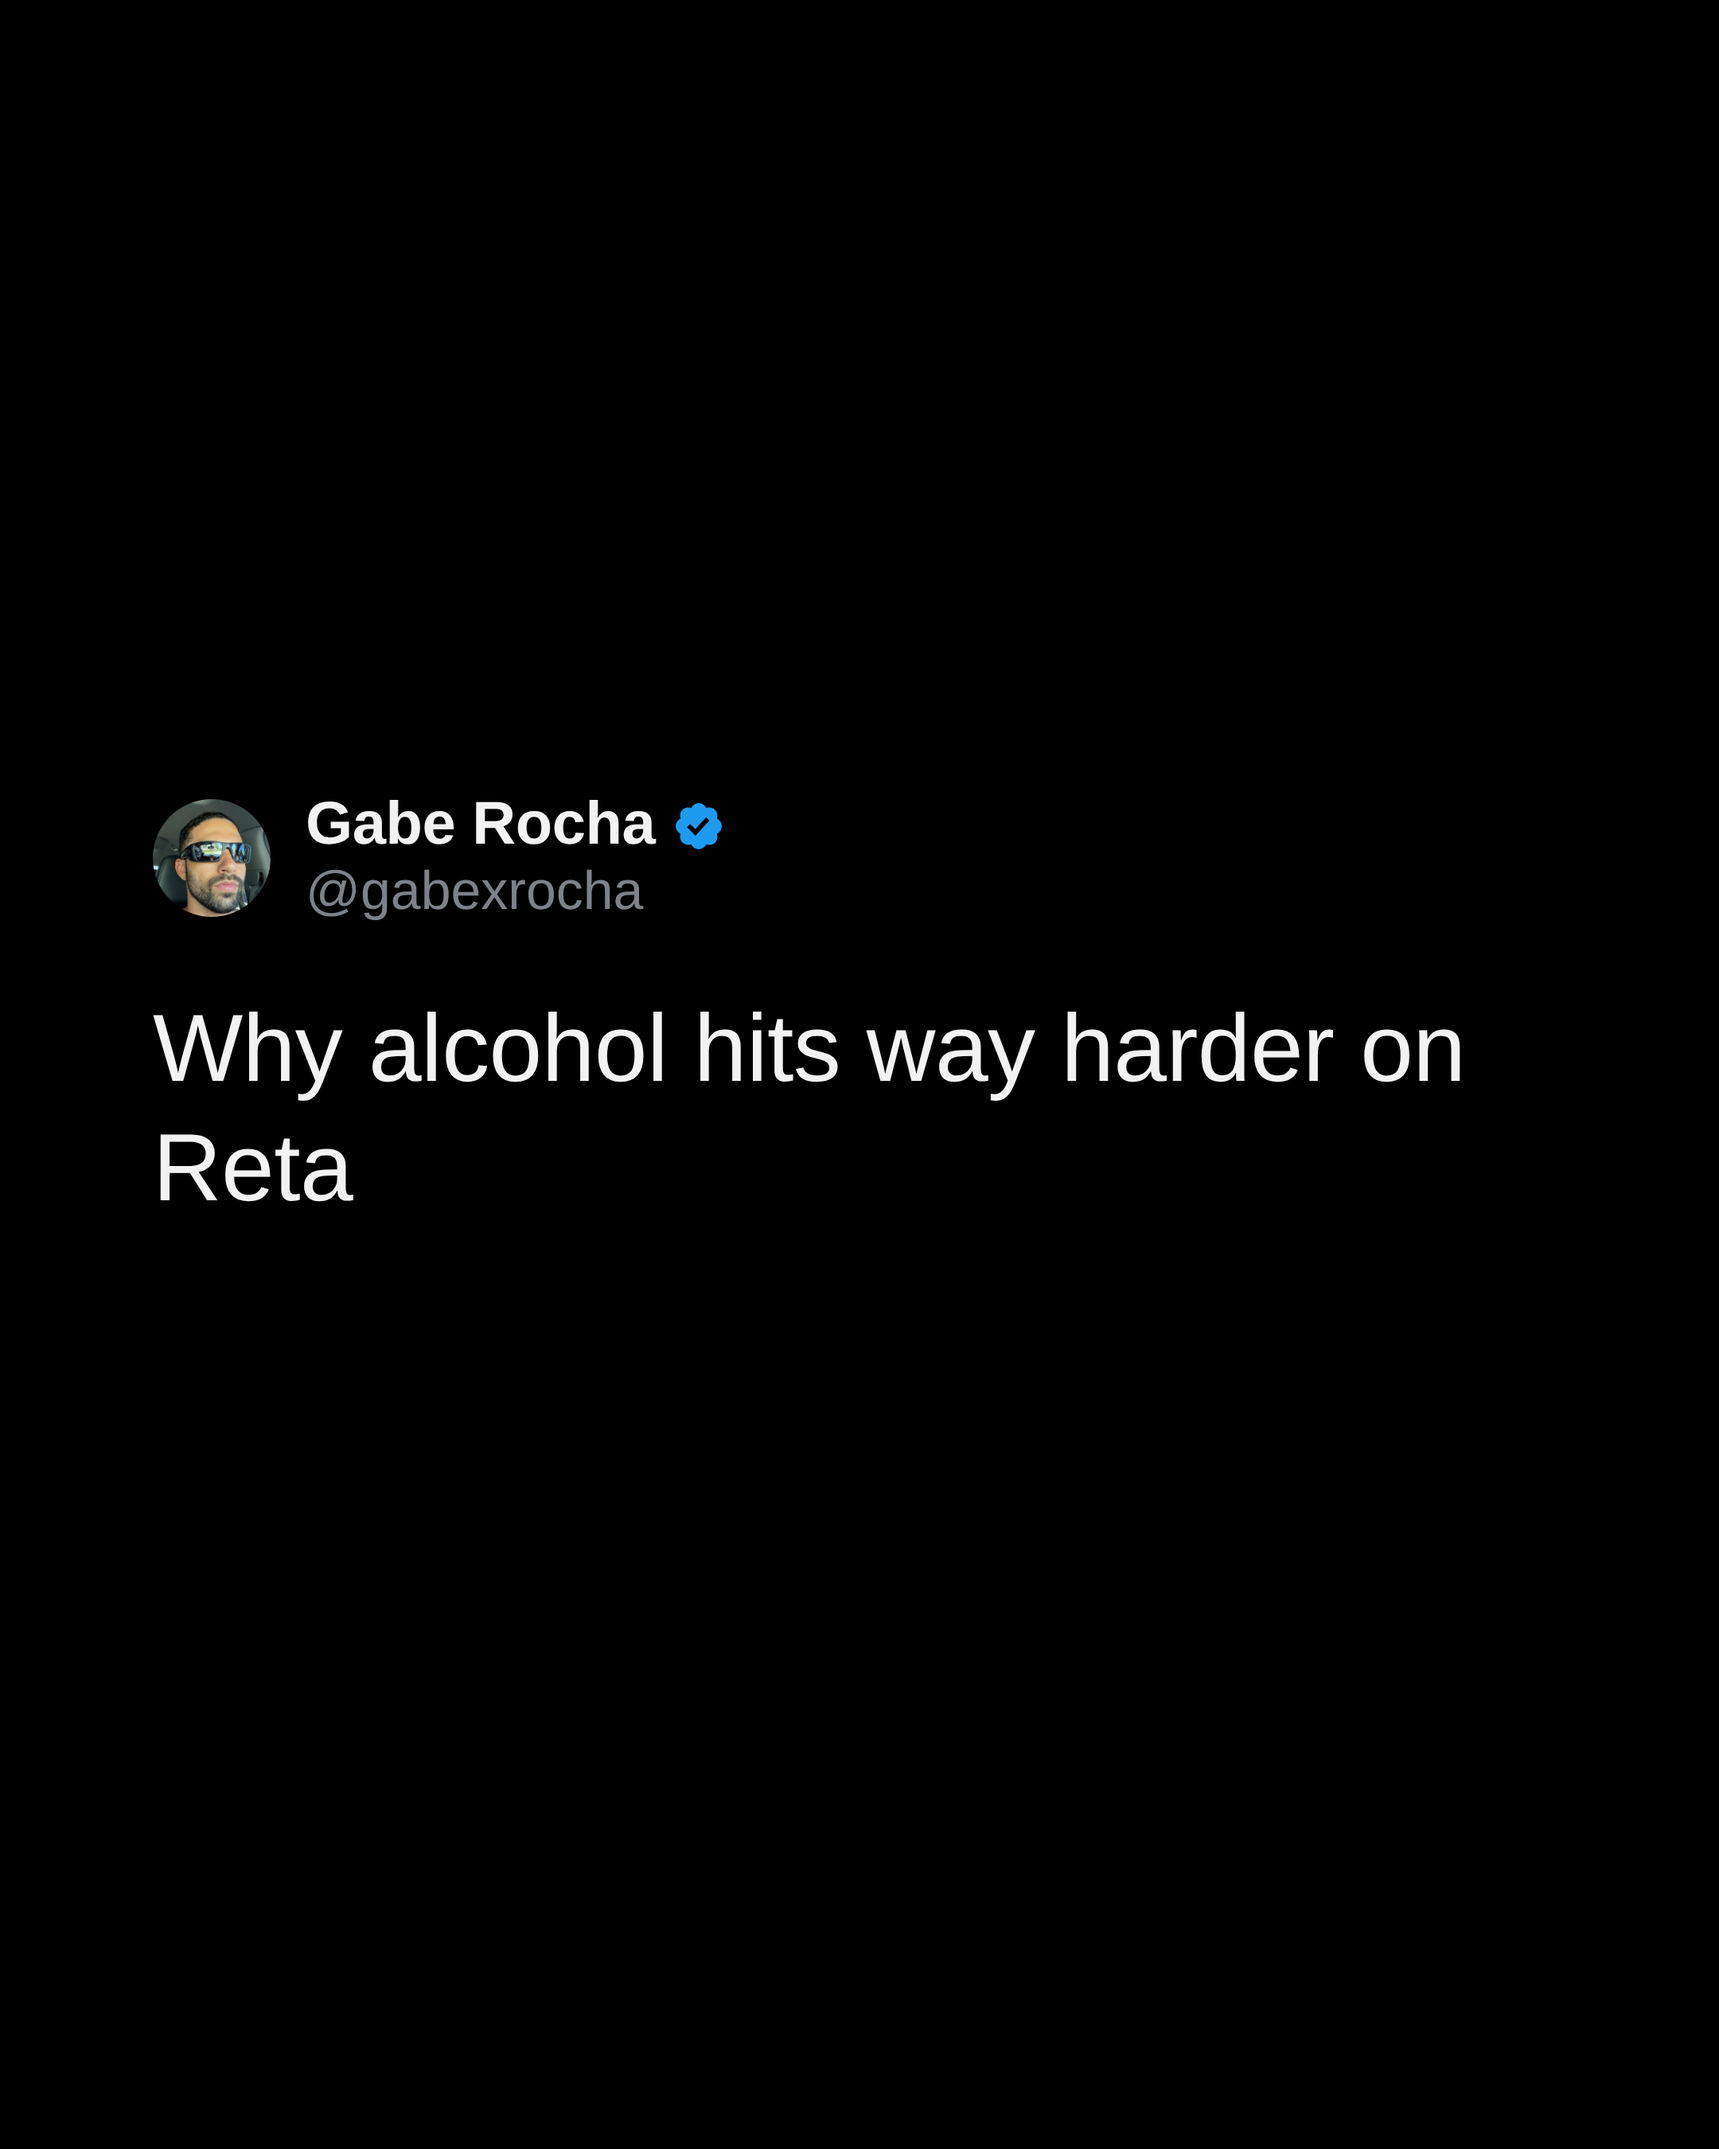
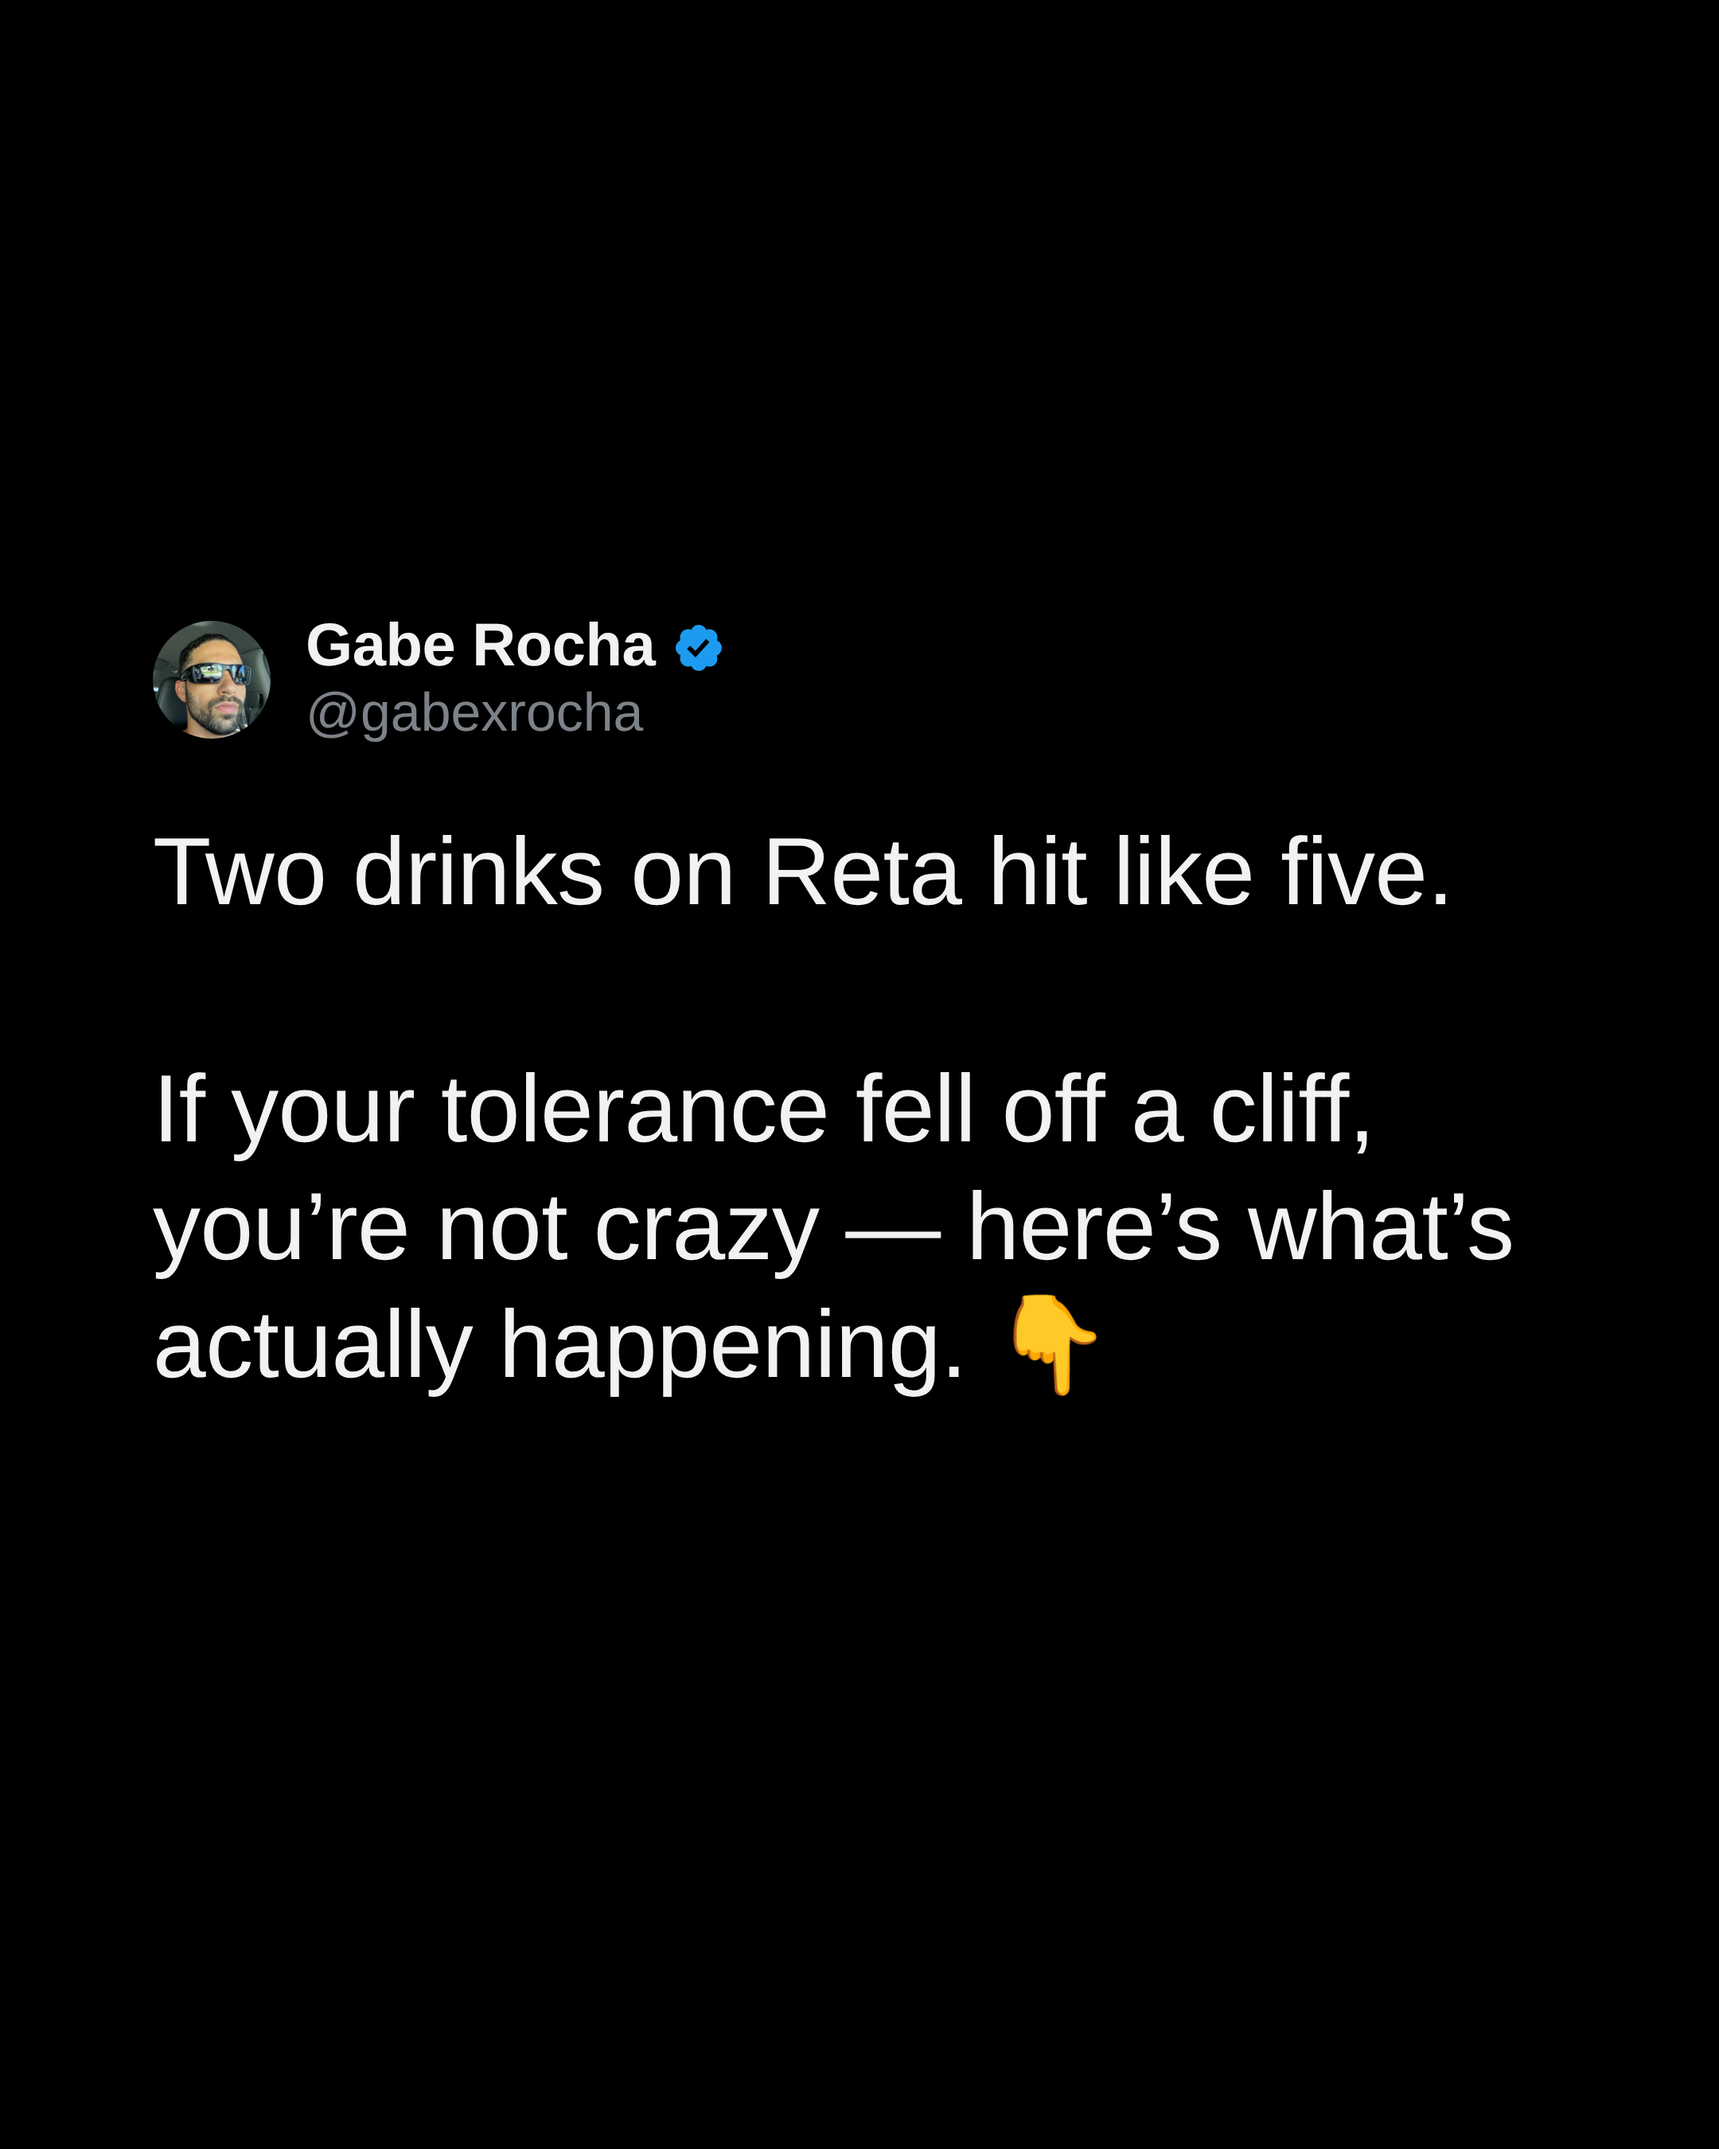
Rewrite carousel copy in original voice
Replace the reference wording with punchier, first-person copy: stronger
hook, tighter lines, same underlying science and 'skool' CTA. Re-render
slide-1..7.

Claude-Session: https://claude.ai/code/session_01KhMAB4xGLRey4k1bYPicjG

diff --git a/carousel.html b/carousel.html
@@ -70,26 +70,37 @@ const NAME = "Gabe Rocha";
 const HANDLE = "@gabexrocha";
 
 const SLIDES = [
-  { kind:"hook", html:`Why alcohol hits way harder on Reta` },
-  { html:`<b>Reta</b> slows gastric emptying.
+  { kind:"hook", html:`Two drinks on Reta hit like five.
 
-That changes how alcohol moves through your digestive system and how your body experiences it.
+If your tolerance fell off a cliff, you’re not crazy — here’s what’s actually happening. 👇` },
+  { html:`Reta slams the brakes on how fast your stomach empties.
 
-Many users notice they feel intoxicated on far less alcohol than before.` },
-  { html:`Three things people report:
+That one change rewires how alcohol moves through you and how hard it lands.
 
-•  Getting drunk much faster
+Most guys tell me they feel wrecked on <b>half</b> of what they used to handle.` },
+  { html:`The same three things come up over and over:
 
-•  Much worse hangovers
+•  Getting drunk way faster
 
-•  Nausea and reflux becoming significantly worse` },
-  { html:`Yale researchers found GLP-1 receptor agonists <b>reduce an alcohol-metabolizing enzyme</b>. By slowing how fast you break alcohol down, your blood alcohol climbs higher and stays there longer. (npj Metabolic Health and Disease, Sept 18)` },
-  { html:`<b>Weight loss quietly lowers your tolerance.</b>
+•  Hangovers that feel like a punishment
 
-Less body mass means less body water. The same drink now spreads through a smaller volume, producing a <b>higher blood alcohol concentration</b>. You did not change, your body did.` },
-  { html:`Reta kills your appetite, so you eat less. That often means drinking on a <b>near-empty stomach</b>, where alcohol hits faster and harder with nothing to slow it down.` },
-  { kind:"cta", html:`Comment “skool”
-to join my peptide community with over 1200 members and courses and protocols on all peptides.` },
+•  Nausea and reflux going through the roof` },
+  { html:`And no, it’s not in your head.
+
+Yale researchers found GLP-1s <b>cut down the enzyme your body uses to break alcohol apart</b>. So your blood alcohol climbs higher and camps out longer.
+
+(npj Metabolic Health &amp; Disease)` },
+  { html:`Here’s the part nobody connects:
+
+losing weight quietly drops your tolerance too. Less body mass means less water to dilute the alcohol — same drink, smaller tank, <b>higher concentration</b>.
+
+You didn’t get lightweight. Your body changed the math.` },
+  { html:`Stack on top of that: Reta kills your appetite, so you’re drinking on an <b>empty stomach</b> without even realizing it.
+
+Nothing in there to slow it down means it hits faster and harder every single time.` },
+  { kind:"cta", html:`Want the real playbook on Reta and every peptide I run?
+
+Comment “skool” and I’ll drop you into my community — 1,200+ guys, full protocols and courses on all of it.` },
 ];
 
 const BADGE = `<svg class="badge" viewBox="0 0 22 22" aria-hidden="true"><path fill="#1d9bf0" d="M20.396 11c-.018-.646-.215-1.275-.57-1.816-.354-.54-.852-.972-1.438-1.246.223-.607.27-1.264.14-1.897-.131-.634-.437-1.218-.882-1.687-.47-.445-1.053-.75-1.687-.882-.633-.13-1.29-.083-1.897.14-.273-.587-.704-1.086-1.245-1.44-.541-.354-1.17-.551-1.816-.569-.646.018-1.275.215-1.816.569-.541.354-.972.853-1.245 1.44-.607-.223-1.264-.27-1.898-.14-.633.132-1.216.437-1.686.882-.445.47-.75 1.053-.882 1.687-.13.633-.083 1.29.14 1.897-.587.274-1.086.705-1.44 1.246-.354.541-.551 1.17-.569 1.816.018.646.215 1.275.569 1.816.354.541.853.972 1.44 1.245-.223.608-.27 1.265-.14 1.898.132.634.437 1.217.882 1.687.47.445 1.053.75 1.687.882.633.13 1.29.083 1.897-.14.274.587.705 1.086 1.246 1.44.541.354 1.17.551 1.816.569.646-.018 1.275-.215 1.816-.569.541-.354.972-.853 1.245-1.44.604.239 1.266.303 1.906.185.64-.118 1.232-.413 1.703-.848.435-.47.73-1.063.848-1.703.118-.64.054-1.302-.185-1.906.587-.273 1.086-.704 1.44-1.245.354-.541.551-1.17.569-1.816zM9.662 14.85l-3.429-3.428 1.293-1.302 2.072 2.072 4.4-4.794 1.347 1.246z"/></svg>`;
